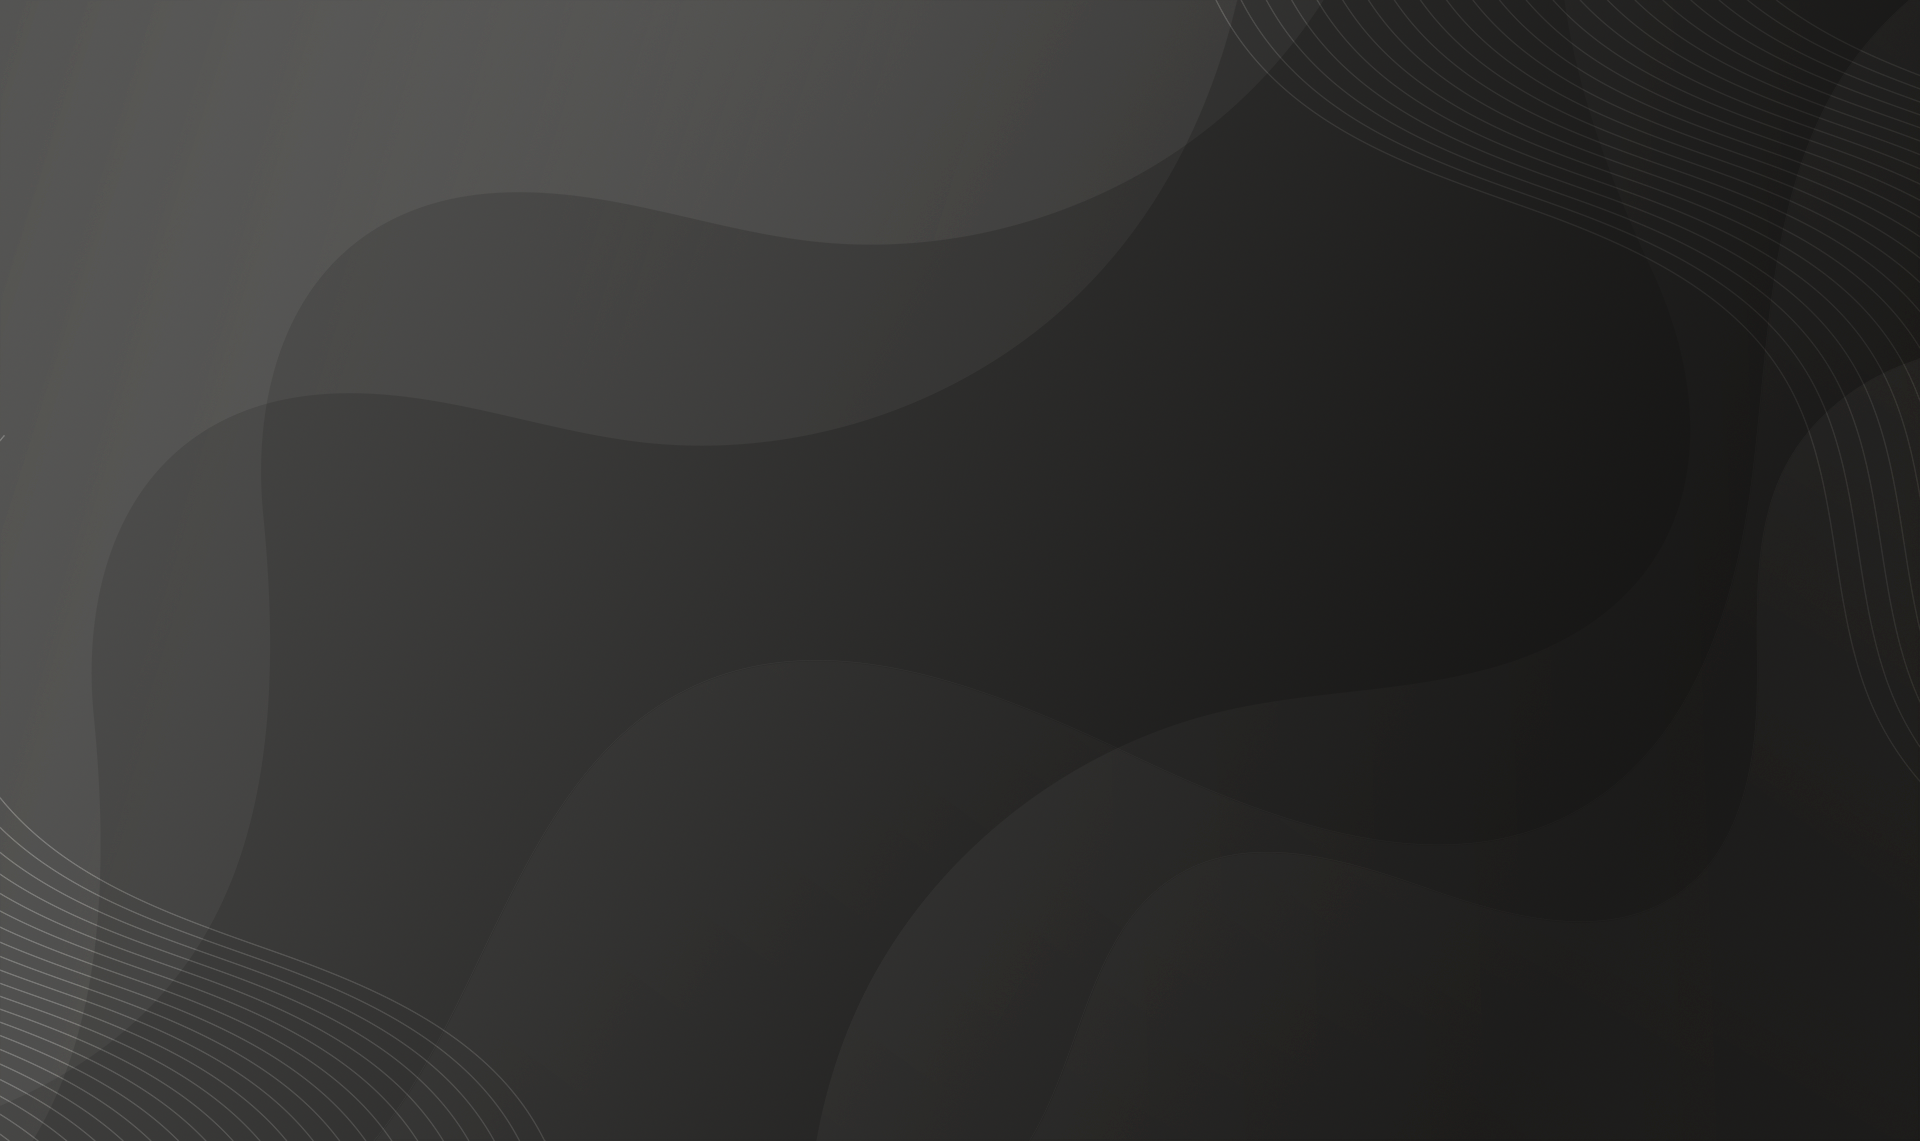
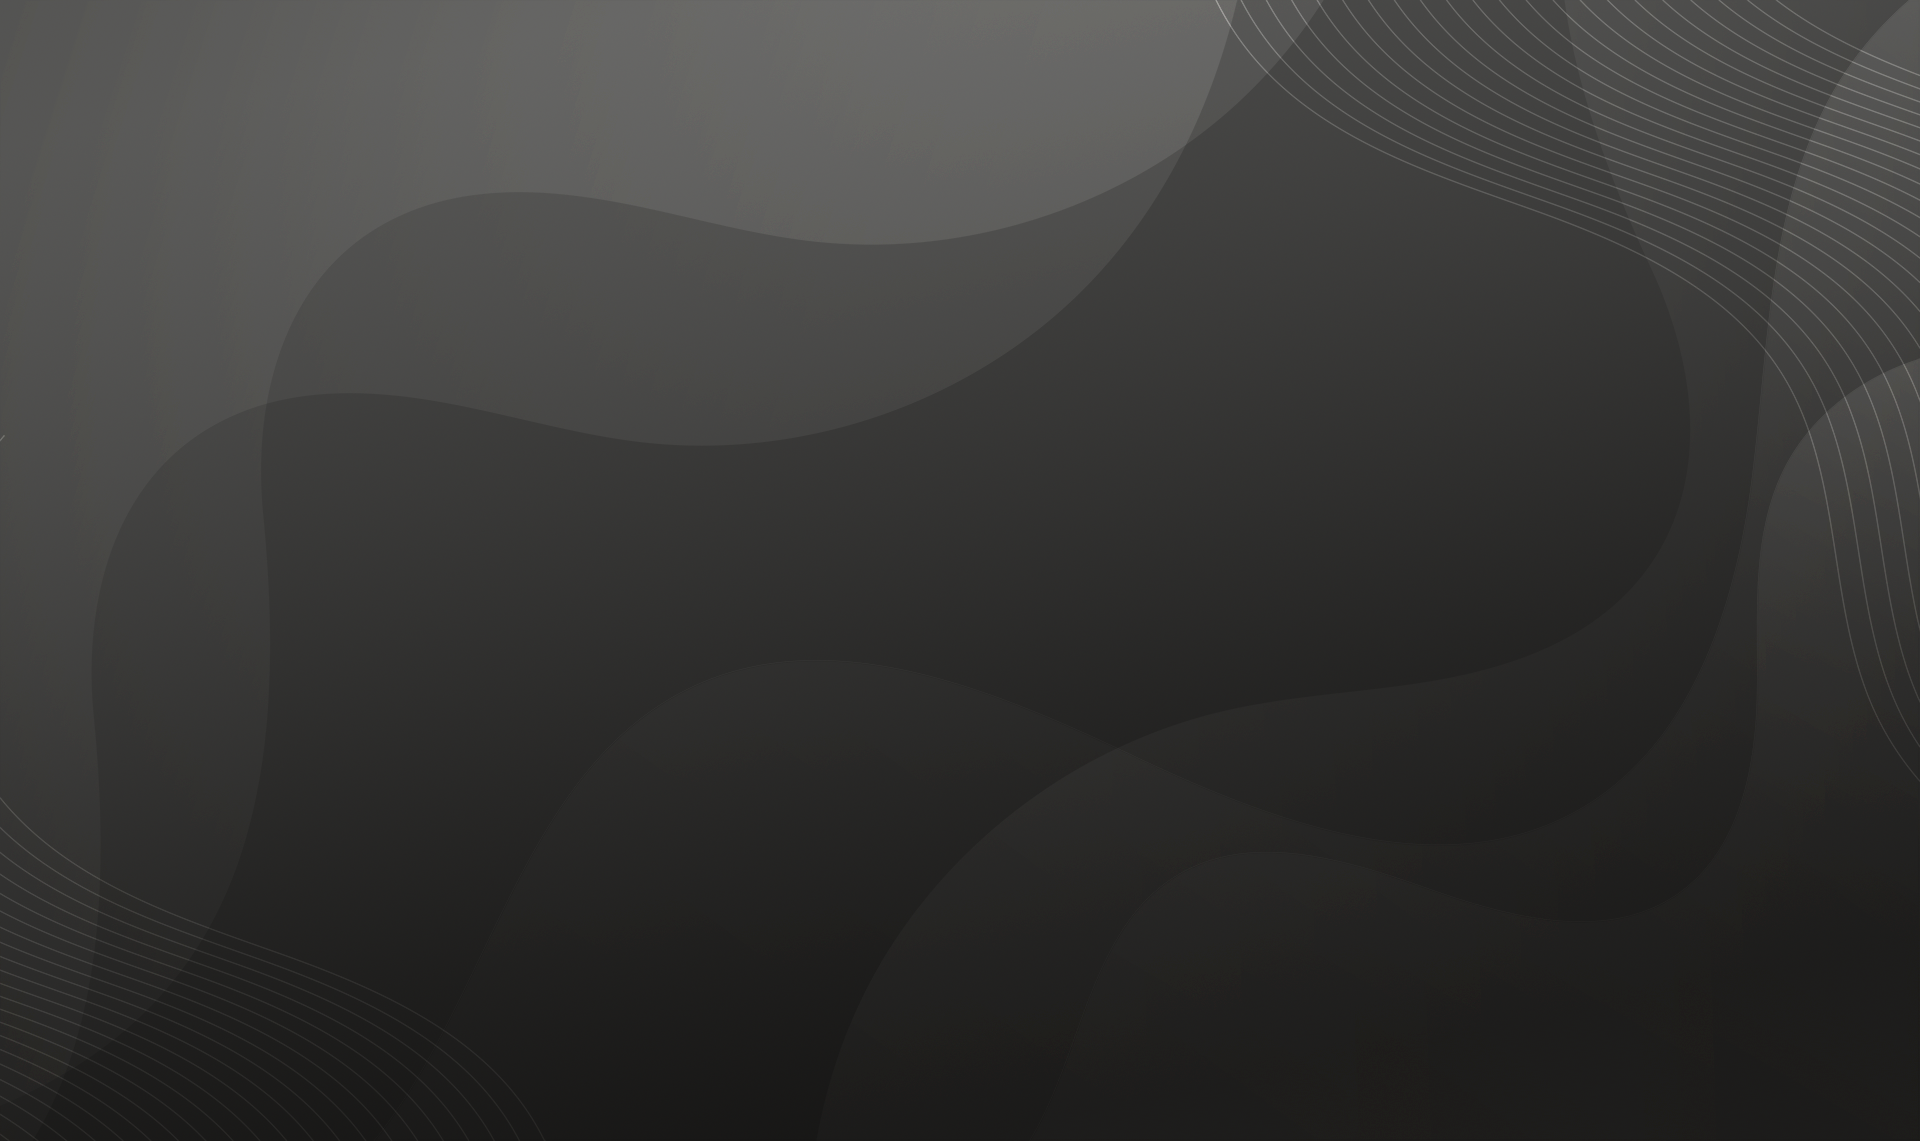
commit

Changed region(s): [[0.375, 0.0, 1.0, 0.5521], [0.0, 0.6442, 0.2812, 1.0]]

diff --git a/components/AppBar.js b/components/AppBar.js
@@ -75,9 +75,9 @@ function DrawerAppBar(props) {
 
   return (
     
-    <Box className="firstBG" sx={{ display: 'flex', }}>  
+    <Box className="navBG" sx={{ display: 'flex', }}>  
     <HideOnScroll {...props}>
-      <AppBar component="nav" className="firstBG" elevation={2}>
+      <AppBar component="nav" className="navBG" elevation={2}>
         <Container maxWidth="lg">
         <Toolbar display='flex' sx={{maxWidth:'100xw',}}>
         <Box sx={{ flexGrow: 1, }}>

diff --git a/styles/globals.css b/styles/globals.css
@@ -38,6 +38,10 @@ background: linear-gradient(356deg, rgba(243,211,243,1) 0%, rgba(157,114,239,1) 
   background: rgb(243,211,243);
 background: linear-gradient(356deg, rgba(243,211,243,1) 0%, rgba(185,152,246,1) 52%, rgba(166,137,249,1) 100%);
 }
+.navBG{
+  background: rgb(11,11,11);
+background: linear-gradient(356deg, rgba(11,11,11,1) 0%, rgba(65,65,65,1) 52%, rgba(42,42,42,1) 100%);
+}
 * {
   box-sizing: border-box;
 }
